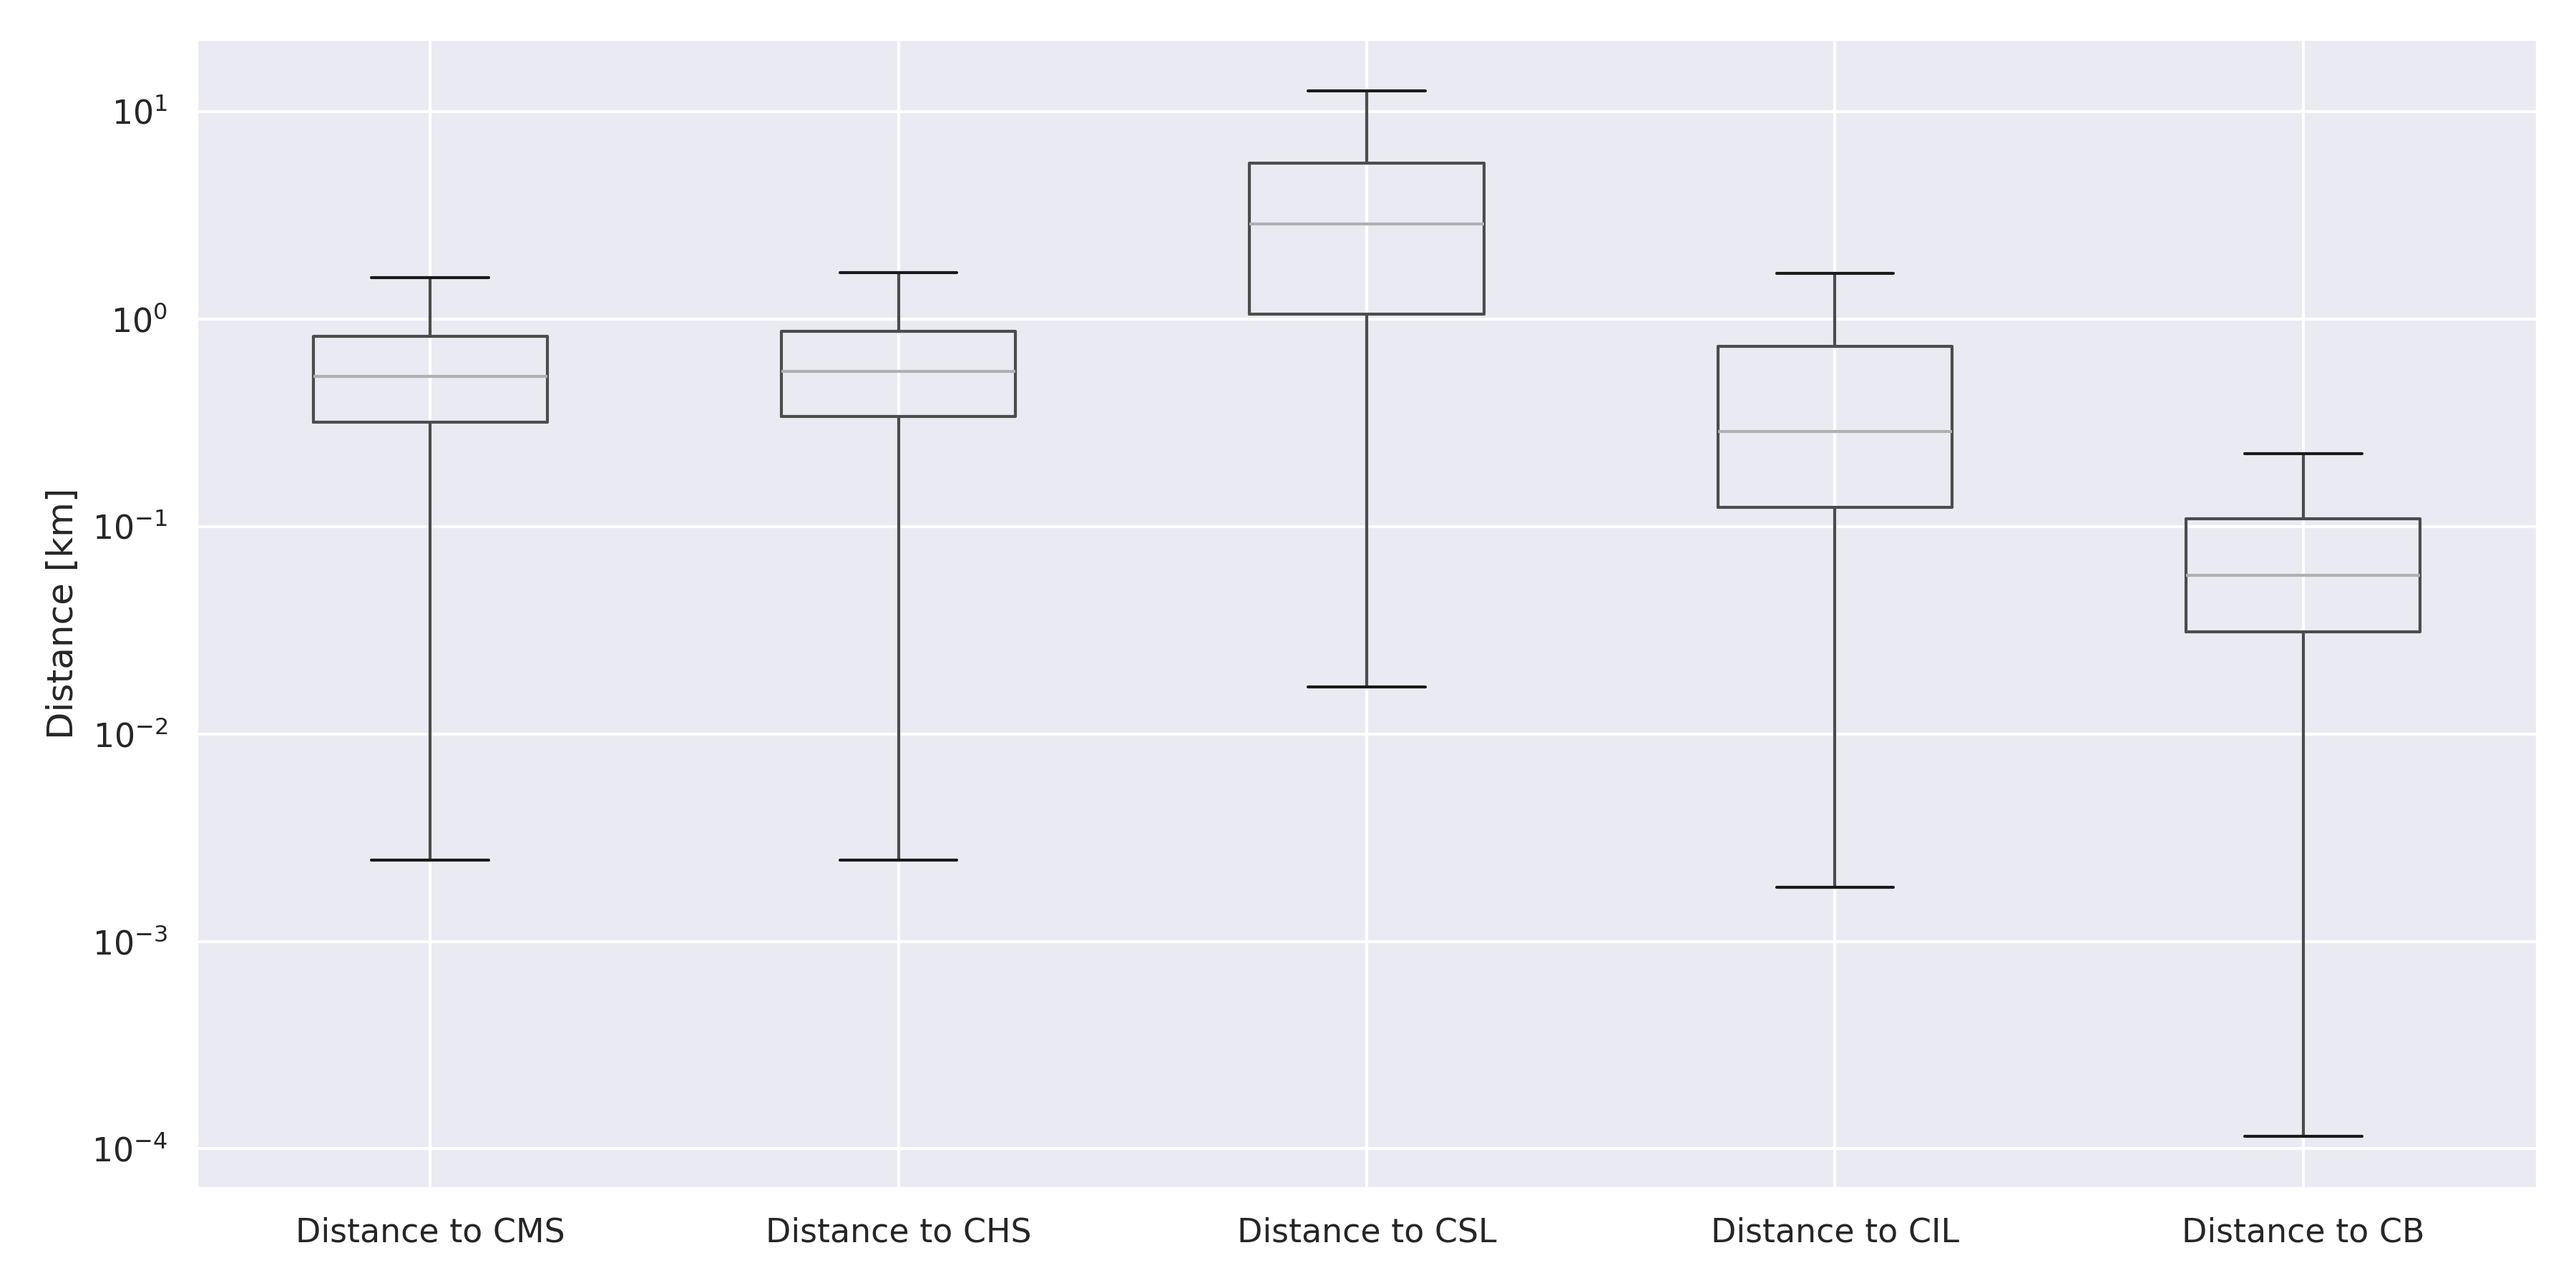
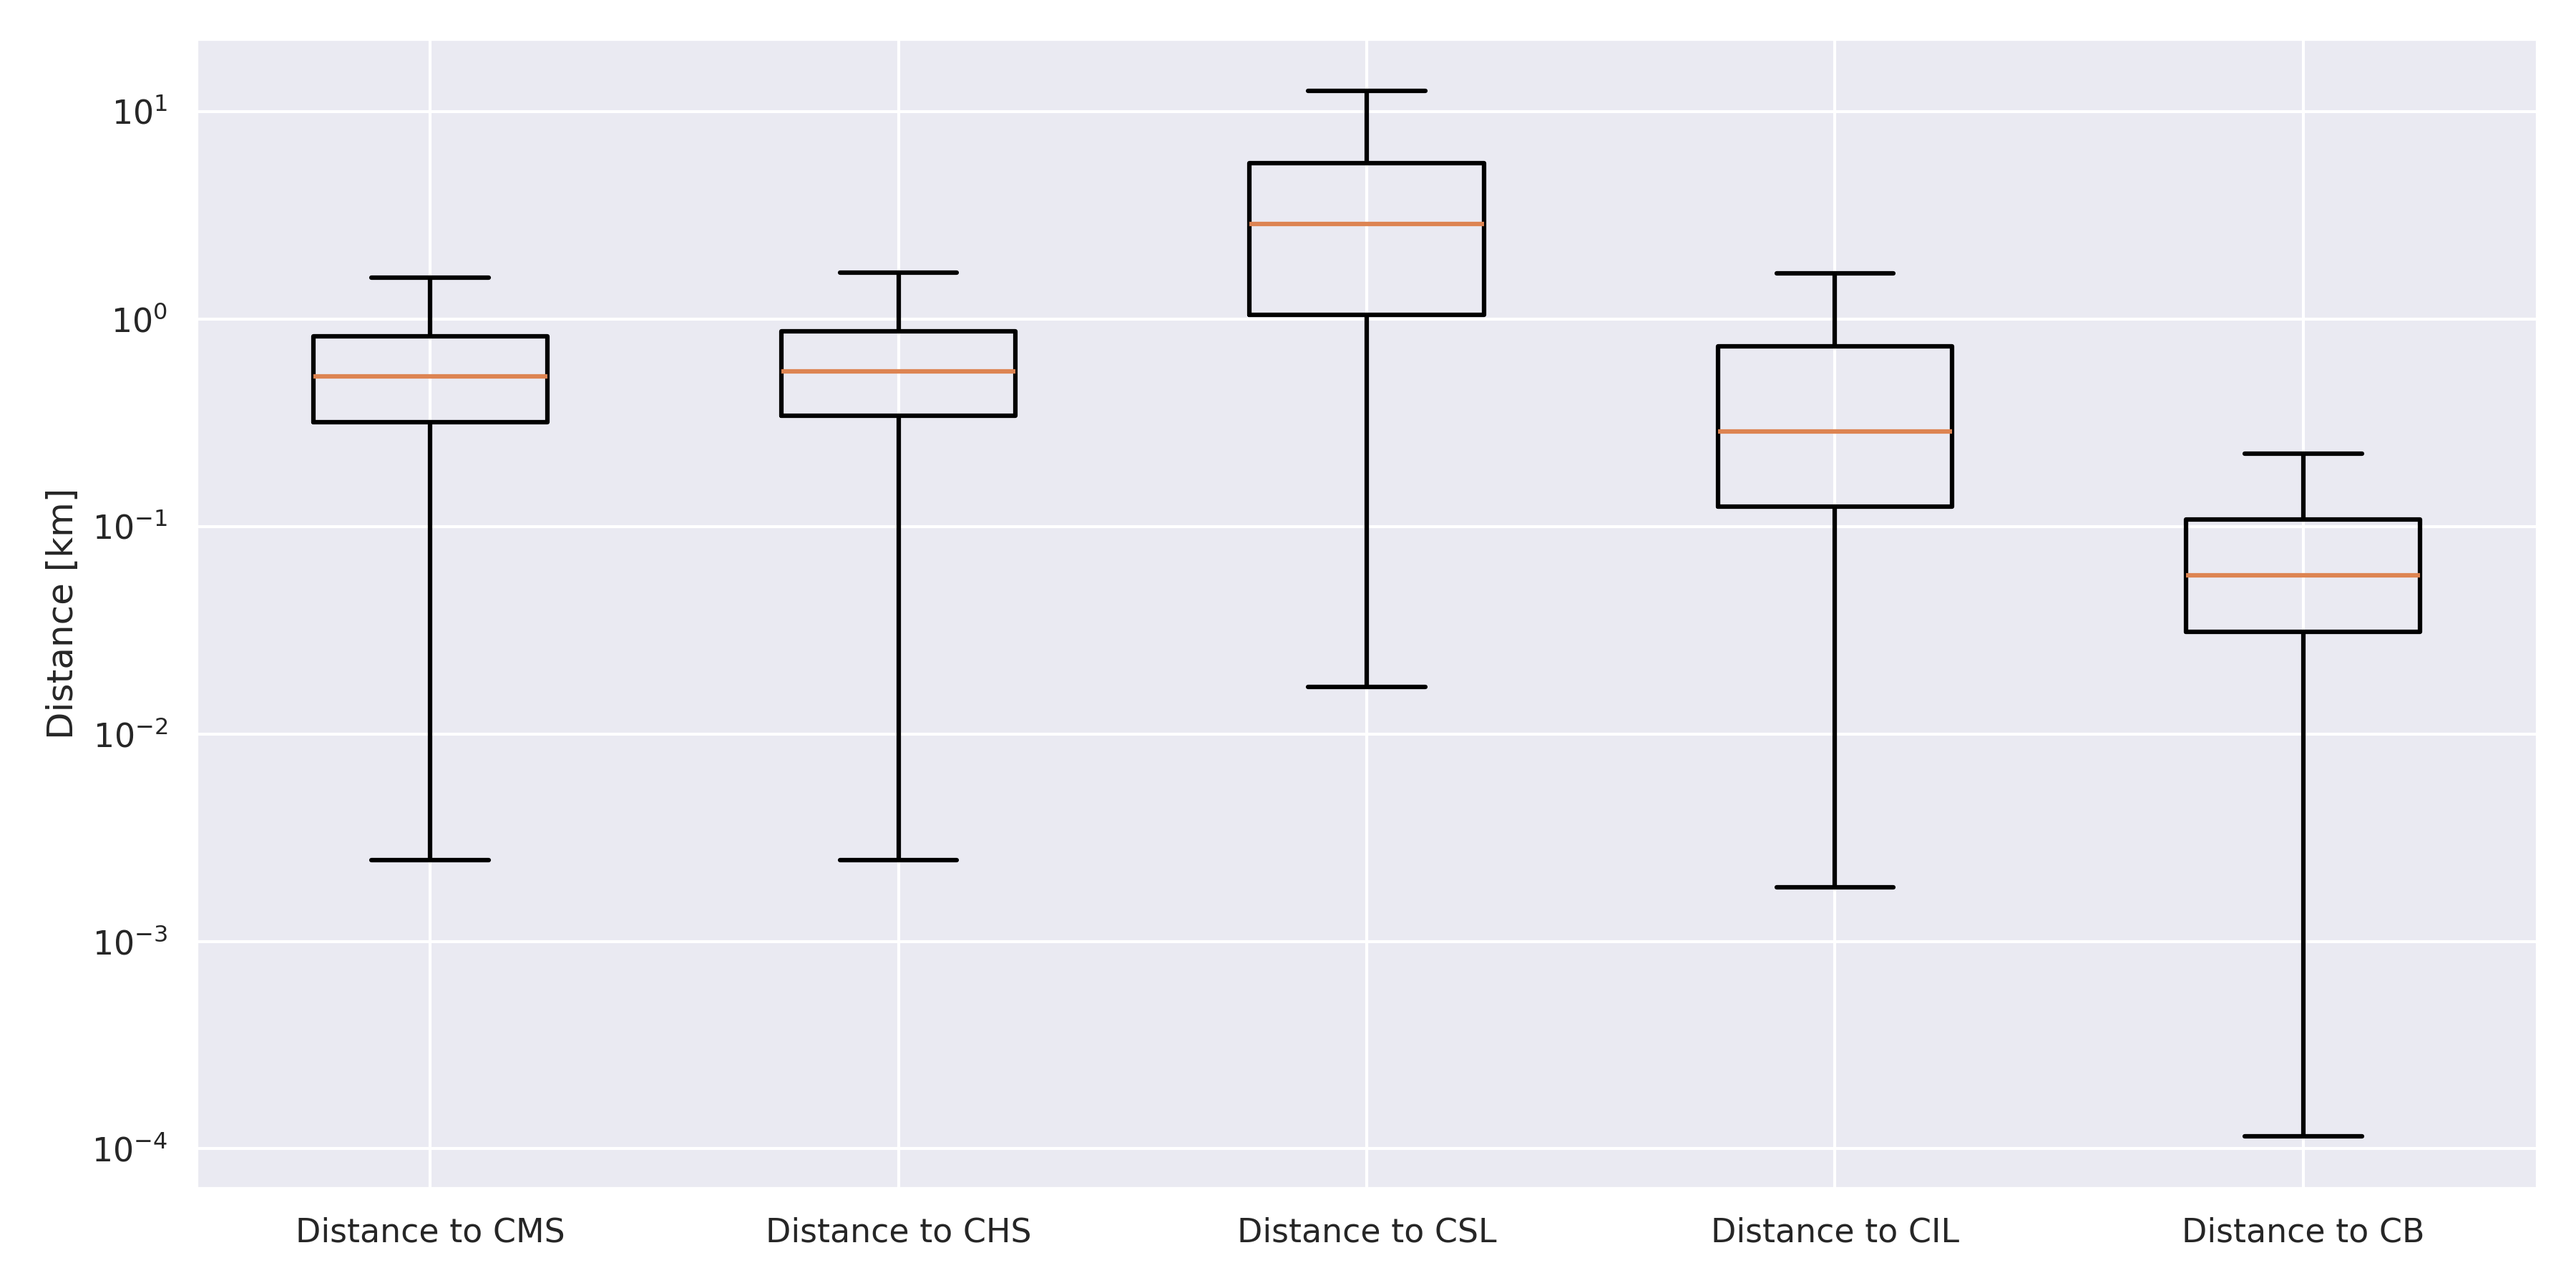
eda inbetween

diff --git a/data_scripts/EDA/pot_locations.py b/data_scripts/EDA/pot_locations.py
@@ -29,12 +29,14 @@ def make_plot(ms_data, hs_data, li_data, ls_data, b_data, save_path):
     nyc_boroughs.plot(ax=axs[1], alpha=0.4, edgecolor="k")
     nyc_boroughs.plot(ax=axs[2], alpha=0.4, edgecolor="k")
 
+    pallete = sns.color_palette("deep", 5)
+
     ms_data.compute().plot(
         kind="scatter",
         x="Longitude",
         y="Latitude",
         ax=axs[0],
-        color="red",
+        color=pallete[0],
         alpha=0.5,
         label="Middle Schools",
     )
@@ -43,7 +45,7 @@ def make_plot(ms_data, hs_data, li_data, ls_data, b_data, save_path):
         x="Longitude",
         y="Latitude",
         ax=axs[0],
-        color="blue",
+        color=pallete[1],
         alpha=0.5,
         label="High Schools",
     )
@@ -52,7 +54,7 @@ def make_plot(ms_data, hs_data, li_data, ls_data, b_data, save_path):
         x="Longitude",
         y="Latitude",
         ax=axs[1],
-        color="green",
+        color=pallete[2],
         alpha=0.5,
         label="Individual Landmarks",
     )
@@ -61,8 +63,8 @@ def make_plot(ms_data, hs_data, li_data, ls_data, b_data, save_path):
         x="Longitude",
         y="Latitude",
         ax=axs[1],
-        color="orange",
-        alpha=0.5,
+        color=pallete[3],
+        alpha=0.8,
         label="Scenic Landmarks",
         ylabel="",
     )
@@ -71,15 +73,20 @@ def make_plot(ms_data, hs_data, li_data, ls_data, b_data, save_path):
         x="Longitude",
         y="Latitude",
         ax=axs[2],
-        color="purple",
+        color=pallete[4],
         alpha=0.5,
         label="Businesses",
         ylabel="",
     )
 
-    ctx.add_basemap(axs[0], crs=nyc_boroughs.crs.to_string(), source=ctx.providers.CartoDB.Positron)
-    ctx.add_basemap(axs[1], crs=nyc_boroughs.crs.to_string(), source=ctx.providers.CartoDB.Positron)
-    ctx.add_basemap(axs[2], crs=nyc_boroughs.crs.to_string(), source=ctx.providers.CartoDB.Positron)
+    ctx.add_basemap(axs[0], crs=nyc_boroughs.crs.to_string(), zoom=12)
+    ctx.add_basemap(axs[1], crs=nyc_boroughs.crs.to_string(), zoom=12)
+    ctx.add_basemap(axs[2], crs=nyc_boroughs.crs.to_string(), zoom=12)
+
+    # Fallback if OpenStreetMap is not available
+    # ctx.add_basemap(axs[0], crs=nyc_boroughs.crs.to_string(), source=ctx.providers.CartoDB.Positron)
+    # ctx.add_basemap(axs[1], crs=nyc_boroughs.crs.to_string(), source=ctx.providers.CartoDB.Positron)
+    # ctx.add_basemap(axs[2], crs=nyc_boroughs.crs.to_string(), source=ctx.providers.CartoDB.Positron)
 
     plt.tight_layout()
     plt.savefig(save_path, dpi=300)

diff --git a/data_scripts/EDA/points_of_interest.py b/data_scripts/EDA/points_of_interest.py
@@ -4,6 +4,7 @@ import os
 import sys
 import time
 
+import contextily as ctx
 import dask.dataframe as dd
 import geopandas as gpd
 import geoplot as gplt
@@ -65,13 +66,15 @@ def make_plot_reg(ms_data, hs_data, li_data, ls_data, b_data, save_path):
 
     nyc_boroughs.plot(ax=ax, alpha=0.4, edgecolor="k")
 
+    pallete = sns.color_palette("deep", 5)
+
     ms_data.plot(
         kind="scatter",
         x="Longitude",
         y="Latitude",
         ax=ax,
-        color="red",
-        alpha=0.5,
+        color=pallete[0],
+        alpha=0.8,
         label="Middle Schools",
         s=ms_data["Summons Number"] / ms_data["Summons Number"].sum() * 500,
     )
@@ -80,8 +83,8 @@ def make_plot_reg(ms_data, hs_data, li_data, ls_data, b_data, save_path):
         x="Longitude",
         y="Latitude",
         ax=ax,
-        color="blue",
-        alpha=0.5,
+        color=pallete[1],
+        alpha=0.8,
         label="High Schools",
         s=hs_data["Summons Number"] / hs_data["Summons Number"].sum() * 500,
     )
@@ -90,8 +93,8 @@ def make_plot_reg(ms_data, hs_data, li_data, ls_data, b_data, save_path):
         x="Longitude",
         y="Latitude",
         ax=ax,
-        color="green",
-        alpha=0.5,
+        color=pallete[2],
+        alpha=0.8,
         label="Individual Landmarks",
         s=li_data["Summons Number"] / li_data["Summons Number"].sum() * 500,
     )
@@ -100,8 +103,8 @@ def make_plot_reg(ms_data, hs_data, li_data, ls_data, b_data, save_path):
         x="Longitude",
         y="Latitude",
         ax=ax,
-        color="orange",
-        alpha=0.5,
+        color=pallete[3],
+        alpha=0.8,
         label="Scenic Landmarks",
         s=ls_data["Summons Number"] / ls_data["Summons Number"].sum() * 500,
     )
@@ -110,11 +113,17 @@ def make_plot_reg(ms_data, hs_data, li_data, ls_data, b_data, save_path):
         x="Longitude",
         y="Latitude",
         ax=ax,
-        color="purple",
-        alpha=0.5,
+        color=pallete[4],
+        alpha=0.8,
         label="Businesses",
         s=b_data["Summons Number"] / b_data["Summons Number"].sum() * 500,
     )
+
+    # ctx.add_basemap(ax, crs=nyc_boroughs.crs.to_string(), zoom=12)
+
+    # Fallback if OpenStreetMap is not available
+    ctx.add_basemap(ax, crs=nyc_boroughs.crs.to_string(), source=ctx.providers.CartoDB.Positron)
+
     # plt.title("Top 10 Closest Points of Interest w.r.t. Number of Parking Tickets Issued")
     plt.legend(loc='upper left')
     plt.tight_layout()

diff --git a/data_scripts/EDA/distances_metrics.py b/data_scripts/EDA/distances_metrics.py
@@ -47,7 +47,14 @@ def read_data(location, format):
     return data
 
 
+def _pallete_to_hex(rgb):
+    rgb = [int(val * 256) for val in rgb]
+    return "#{:02x}{:02x}{:02x}".format(*rgb)
+
+
 def make_plot(data, save_path):
+    pallete = sns.color_palette("deep", 10)
+
     data.compute().boxplot(
         column=[
             "Distance to CMS",
@@ -58,6 +65,17 @@ def make_plot(data, save_path):
         ],
         showfliers=False,
         figsize=(12, 6),
+        color=dict(
+            boxes=_pallete_to_hex(pallete[7]),
+            whiskers=_pallete_to_hex(pallete[9]),
+            medians=_pallete_to_hex(pallete[1]),
+            caps=_pallete_to_hex(pallete[9]),
+        ),
+        boxprops=dict(linestyle="-", linewidth=1.5),
+        flierprops=dict(linestyle="-", linewidth=1.5),
+        medianprops=dict(linestyle="-", linewidth=1.5),
+        whiskerprops=dict(linestyle="-", linewidth=1.5),
+        capprops=dict(linestyle="-", linewidth=1.5),
     )
     plt.yscale("log")
     plt.ylabel("Distance [km]")

diff --git a/data_scripts/EDA/location_density.py b/data_scripts/EDA/location_density.py
@@ -58,7 +58,7 @@ def make_plot(
     ax = gplt.polyplot(nyc_boroughs, figsize=(12,12), projection=gplt.crs.AlbersEqualArea(), zorder=1, edgecolor="k")
     gplt.kdeplot(
         data,
-        cmap="mako",
+        cmap="rocket_r",
         thresh=0.05,
         alpha=1,
         ax=ax,
@@ -72,7 +72,7 @@ def make_plot(
         legend=True,
         alpha=0.25,
         zorder=2,
-        cmap="Reds",
+        cmap=sns.color_palette("Dark2", 5, as_cmap=True),
         legend_kwargs={"loc": "upper left"},
     )
     plt.tight_layout()
@@ -80,7 +80,7 @@ def make_plot(
     plt.xlabel("Longitude")
     plt.ylabel("Latitude")
     plt.tight_layout()
-    plt.savefig(save_path, dpi=300)
+    plt.savefig(save_path, dpi=300, bbox_inches="tight")
 
 
 if __name__ == "__main__":

diff --git a/data_scripts/EDA/violations_per_weather_day.py b/data_scripts/EDA/violations_per_weather_day.py
@@ -61,7 +61,7 @@ def make_plot_reg(
         kind="barh",
         figsize=(10, 10),
         title="Number of tickets per day of Weather Condition",
-        color="skyblue",
+        color="#1b9e77",
     )
     plt.tight_layout()
     plt.savefig(save_path, dpi=300)
